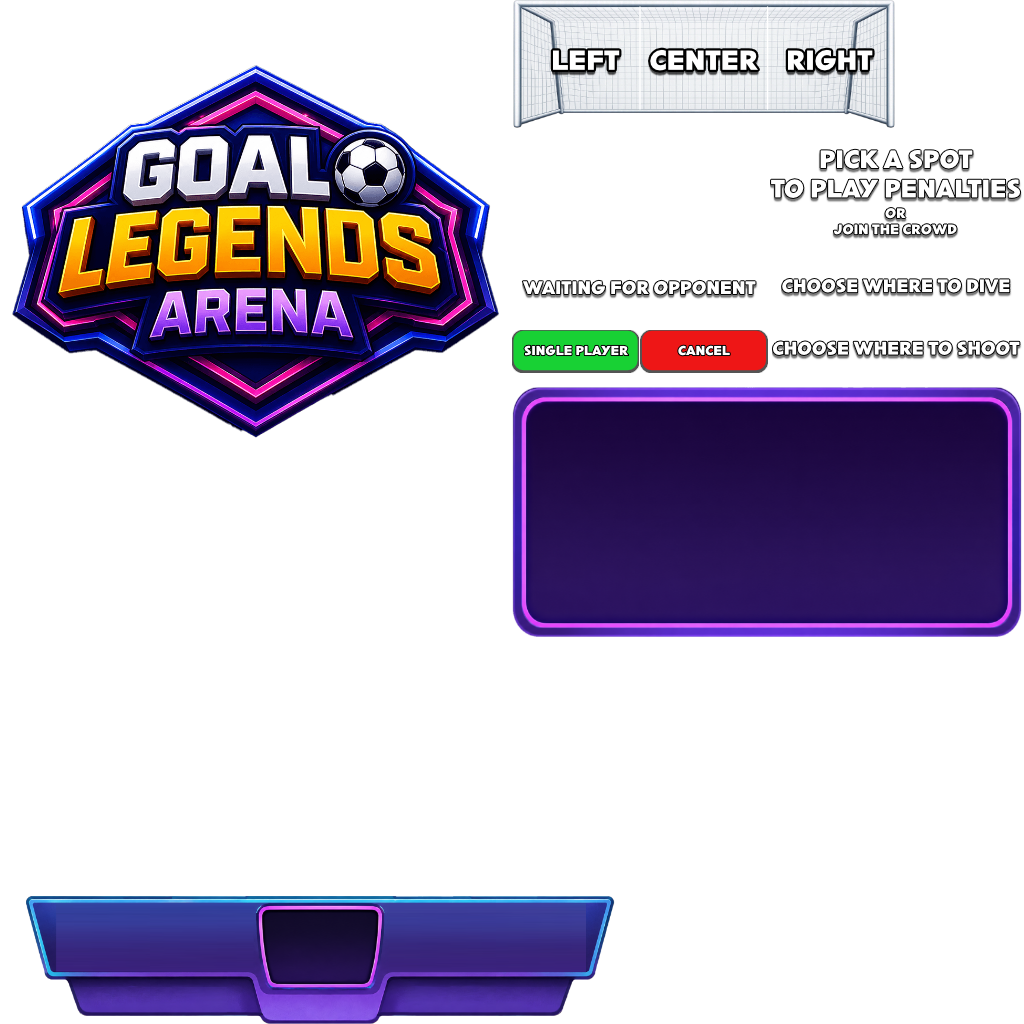
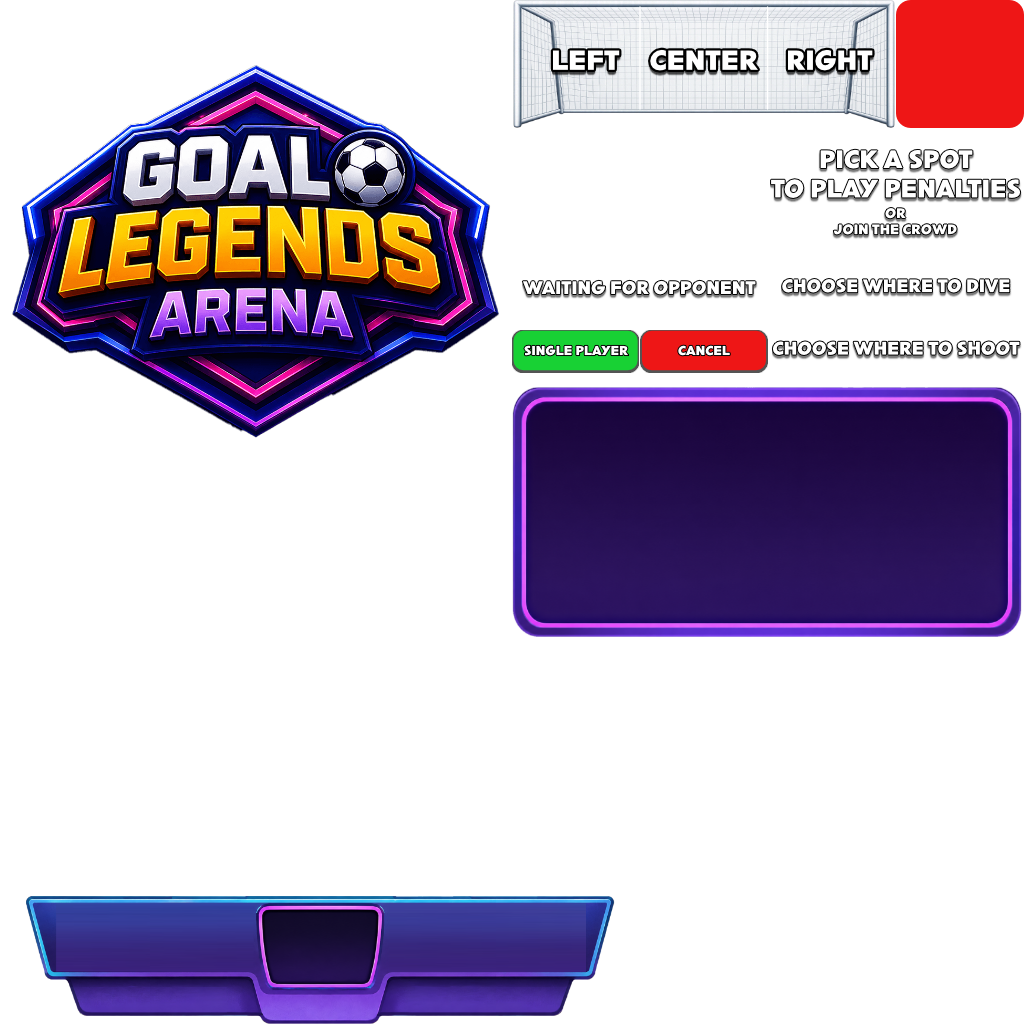
New "open leaderboard" logic

Changed region(s): [[0.875, 0.0, 1.0, 0.125]]

diff --git a/src/client/uiManager.tsx b/src/client/uiManager.tsx
@@ -128,8 +128,8 @@ const SB_FLAG_W = 112
 const SB_FLAG_H = 84
 const SB_PIC = 64
 
-/** F7 = country, H7 = leaderboard, E7 = leave match. */
-const ScoreboardLocalActions = () => {
+/** F7 = country, H7 = leaderboard (siempre visibles). E7 = leave match (solo en partida). */
+const ScoreboardGlobalActions = () => {
   const sz = sbActionBtnSize()
   const gap = sbPx(6)
   return (
@@ -149,17 +149,24 @@ const ScoreboardLocalActions = () => {
       />
       <Button
         value=""
-        uiTransform={{ width: sz, height: sz, margin: { right: gap } }}
+        uiTransform={{ width: sz, height: sz }}
         uiBackground={scoreboardBadgeH7Background()}
         onMouseDown={() => openLeaderboard()}
       />
-      <Button
-        value=""
-        uiTransform={{ width: sz, height: sz }}
-        uiBackground={scoreboardBadgeE7Background()}
-        onMouseDown={() => room.send('leaveMatch', {})}
-      />
     </UiEntity>
+  )
+}
+
+const ScoreboardLeaveButton = () => {
+  const sz = sbActionBtnSize()
+  const gap = sbPx(6)
+  return (
+    <Button
+      value=""
+      uiTransform={{ width: sz, height: sz, margin: { left: gap } }}
+      uiBackground={scoreboardBadgeE7Background()}
+      onMouseDown={() => room.send('leaveMatch', {})}
+    />
   )
 }
 
@@ -177,6 +184,10 @@ export function openLeaderboard(): void {
   prefetchLeaderboardFaces(
     getLeaderboardRows(readPenaltySnapshot().leaderboardJson, LEADERBOARD_TOP_N).map((r) => r.addr)
   )
+}
+
+export function closeLeaderboard(): void {
+  lbShowUntilMs = 0
 }
 
 let prevPhase = ''
@@ -657,8 +668,8 @@ const lbRows = getLeaderboardRows(s.leaderboardJson, LEADERBOARD_TOP_N)
       )}
       {/* ========== fin SCOREBOARD ========== */}
 
-      {/* ========== MATCH ACTIONS (F7 / H7 / E7) — 30% derecha ========== */}
-      {showScoreboard && side && (
+      {/* ========== GLOBAL ACTIONS (F7 / H7) + leave (E7) — esquina superior derecha ========== */}
+      {splashDismissed && (
         <UiEntity
           uiTransform={{
             positionType: 'absolute',
@@ -672,13 +683,14 @@ const lbRows = getLeaderboardRows(s.leaderboardJson, LEADERBOARD_TOP_N)
             flexDirection: 'row',
             alignItems: 'center',
             justifyContent: 'flex-start',
-            zIndex: 55
+            zIndex: 56
           }}
         >
-          <ScoreboardLocalActions />
+          <ScoreboardGlobalActions />
+          {!!side && <ScoreboardLeaveButton />}
         </UiEntity>
       )}
-      {/* ========== fin MATCH ACTIONS ========== */}
+      {/* ========== fin GLOBAL ACTIONS ========== */}
 
       {/* ========== UI: LEADERBOARD (centrado en pantalla) ========== */}
       {splashDismissed && showLeaderboard && <UiEntity
@@ -698,6 +710,7 @@ const lbRows = getLeaderboardRows(s.leaderboardJson, LEADERBOARD_TOP_N)
         {/* Panel visible del leaderboard (fondo + texto) */}
         <UiEntity
           uiTransform={{
+            positionType: 'relative',
             display: 'flex',
             flexDirection: 'column',
             alignItems: 'center',
@@ -707,6 +720,18 @@ const lbRows = getLeaderboardRows(s.leaderboardJson, LEADERBOARD_TOP_N)
           }}
           uiBackground={{ color: Color4.create(0.08, 0.38, 0.14, 0.70) }}
         >
+          <Button
+            value=""
+            uiTransform={{
+              positionType: 'absolute',
+              position: { top: -16, right: -16},
+              width: sbActionBtnSize(),
+              height: sbActionBtnSize(),
+              zIndex: 2
+            }}
+            uiBackground={scoreboardBadgeE7Background()}
+            onMouseDown={() => closeLeaderboard()}
+          />
           <Label value="Leaderboard" fontSize={fs(30)} color={Color4.White()} textAlign="middle-center" uiTransform={{ width: '100%', margin: { bottom: 8 } }} />
           {lbRows.length === 0 ? (
             <Label
@@ -733,13 +758,6 @@ const lbRows = getLeaderboardRows(s.leaderboardJson, LEADERBOARD_TOP_N)
                   value="wins"
                   fontSize={fs(20)}
                   color={Color4.create(1, 0.9, 0.3, 1)}
-                  textAlign="middle-center"
-                  uiTransform={{ width: vw(5), margin: { right: 4 } }}
-                />
-                <Label
-                  value="streaks"
-                  fontSize={fs(20)}
-                  color={Color4.create(0.5, 1, 0.6, 1)}
                   textAlign="middle-center"
                   uiTransform={{ width: vw(5) }}
                 />
@@ -785,15 +803,9 @@ const lbRows = getLeaderboardRows(s.leaderboardJson, LEADERBOARD_TOP_N)
                   </UiEntity>
                   {/* Wins */}
                   <UiEntity
-                    uiTransform={{ width: vw(5), height: rowH, margin: { right: 4 } }}
-                  >
-                    <Label value={`${row.wins}`} fontSize={fs(20)} color={Color4.create(1, 0.9, 0.3, 1)} textAlign="middle-center" uiTransform={{ width: '100%', height: rowH }} />
-                  </UiEntity>
-                  {/* Streak */}
-                  <UiEntity
                     uiTransform={{ width: vw(5), height: rowH }}
                   >
-                    <Label value={`${row.streak}`} fontSize={fs(20)} color={Color4.create(0.5, 1, 0.6, 1)} textAlign="middle-center" uiTransform={{ width: '100%', height: rowH }} />
+                    <Label value={`${row.wins}`} fontSize={fs(20)} color={Color4.create(1, 0.9, 0.3, 1)} textAlign="middle-center" uiTransform={{ width: '100%', height: rowH }} />
                   </UiEntity>
                 </UiEntity>
               )

diff --git a/src/client/leaderboardManager.ts b/src/client/leaderboardManager.ts
@@ -1,6 +1,5 @@
 export type ParsedLeaderboard = {
   wins: Record<string, number>
-  sessionMax: Record<string, number>
   names: Record<string, string>
   countries: Record<string, string>
 }
@@ -11,37 +10,36 @@ export type LeaderboardRow = {
   addr: string
   name: string
   wins: number
-  streak: number
   country: string
 }
 
 export function parseLeaderboardJson(json: string): ParsedLeaderboard {
   try {
-    const o = JSON.parse(json) as ParsedLeaderboard
+    const o = JSON.parse(json) as ParsedLeaderboard & { sessionMax?: Record<string, number> }
     return {
       wins: o.wins || {},
-      sessionMax: o.sessionMax || {},
       names: o.names || {},
       countries: o.countries || {}
     }
   } catch {
-    return { wins: {}, sessionMax: {}, names: {}, countries: {} }
+    return { wins: {}, names: {}, countries: {} }
   }
 }
 
 export function getLeaderboardRows(json: string, maxLines: number): LeaderboardRow[] {
-  const { wins, sessionMax, names, countries } = parseLeaderboardJson(json)
+  const { wins, names, countries } = parseLeaderboardJson(json)
   const sorted = Object.keys(wins).sort((a, b) => {
     const wDiff = (wins[b] || 0) - (wins[a] || 0)
     if (wDiff !== 0) return wDiff
-    return (sessionMax[b] || 0) - (sessionMax[a] || 0)
+    const na = ((names[a] && names[a].trim()) || a).toLowerCase()
+    const nb = ((names[b] && names[b].trim()) || b).toLowerCase()
+    return na.localeCompare(nb)
   })
   return sorted.slice(0, maxLines).map((addr, i) => {
     const w = wins[addr] || 0
-    const ms = sessionMax[addr] || 0
     const name = (names[addr] && names[addr].trim()) || shortAddr(addr)
     const country = countries[addr] || ''
-    return { rank: i + 1, addr, name, wins: w, streak: ms, country }
+    return { rank: i + 1, addr, name, wins: w, country }
   })
 }
 

diff --git a/src/server/matchController.ts b/src/server/matchController.ts
@@ -30,9 +30,6 @@ type LeaderboardFile = {
 
 let stateEntity: Entity = 0 as Entity
 
-const sessionStreak = new Map<string, number>()
-const sessionMaxStreak = new Map<string, number>()
-
 let lbWins: Record<string, number> = {}
 let lbDisplayNames: Record<string, string> = {}
 let lbCountries: Record<string, string> = {}
@@ -51,9 +48,7 @@ function bumpEpoch() {
 }
 
 function packLeaderboardJson(): string {
-  const sessionMax: Record<string, number> = {}
-  for (const [k, v] of sessionMaxStreak.entries()) sessionMax[k] = v
-  return JSON.stringify({ wins: lbWins, sessionMax, names: lbDisplayNames, countries: lbCountries })
+  return JSON.stringify({ wins: lbWins, names: lbDisplayNames, countries: lbCountries })
 }
 
 function syncLbToState() {
@@ -340,10 +335,6 @@ function finishMatch(side: 'red' | 'blue') {
     m.spectatorWinnerName = winName
     m.spectatorChallengeActive = 1
     if (winAddr) {
-      if (loseAddr) sessionStreak.set(loseAddr, 0)
-      const cur = (sessionStreak.get(winAddr) || 0) + 1
-      sessionStreak.set(winAddr, cur)
-      sessionMaxStreak.set(winAddr, Math.max(sessionMaxStreak.get(winAddr) || 0, cur))
       lbWins[winAddr] = (lbWins[winAddr] || 0) + 1
       lbDisplayNames[winAddr] = (winName && winName.trim()) || displayNameFor(winAddr)
       const winCountry = (side === 'red' ? m.redCountry : m.blueCountry) || ''

diff --git a/src/shared/schemas.ts b/src/shared/schemas.ts
@@ -47,7 +47,7 @@ export const PenaltyMatchState = engine.defineComponent('gla:penalty-match-state
   winnerStreakAddr: Schemas.String,
   /** Deadline for winner to play again if they chose YES (ms); 0 if not waiting. */
   winnerStreakDeadlineMs: Schemas.Number,
-  /** JSON: { wins, sessionMax, names? } — names: addr → display name at last win */
+  /** JSON: { wins, names?, countries? } */
   leaderboardJson: Schemas.String,
   /** Updated by server for cooldown rule (≤2 players → no ban). */
   playersInScene: Schemas.Int,
